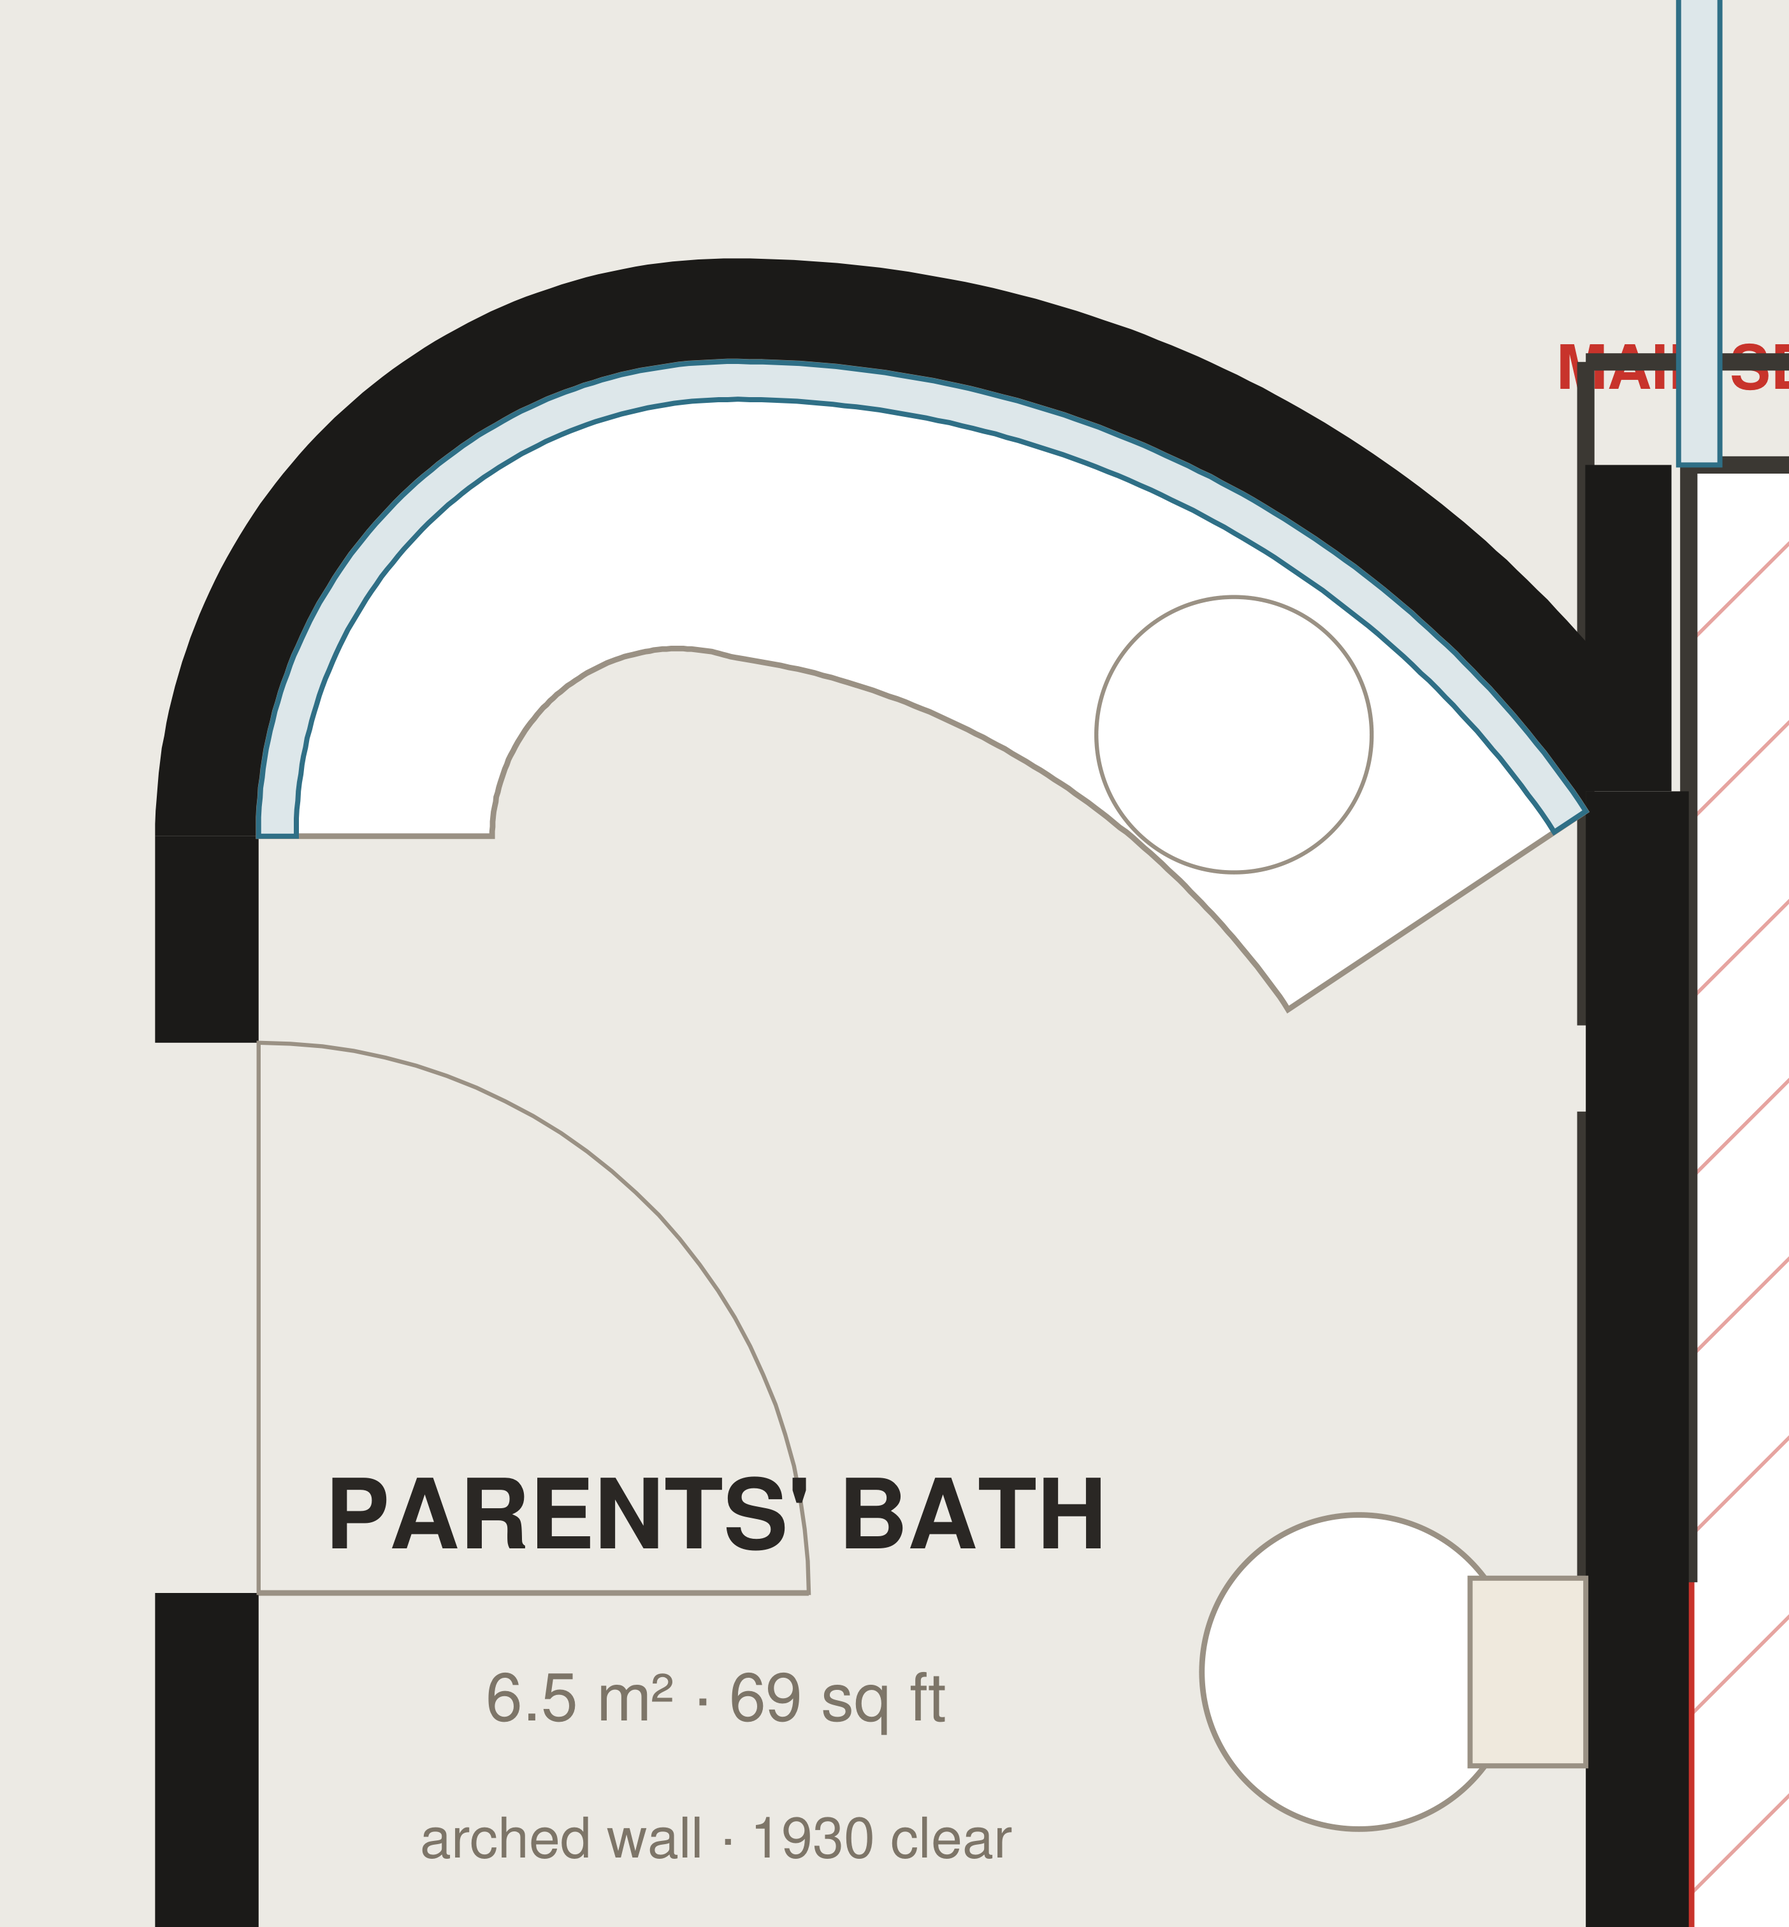
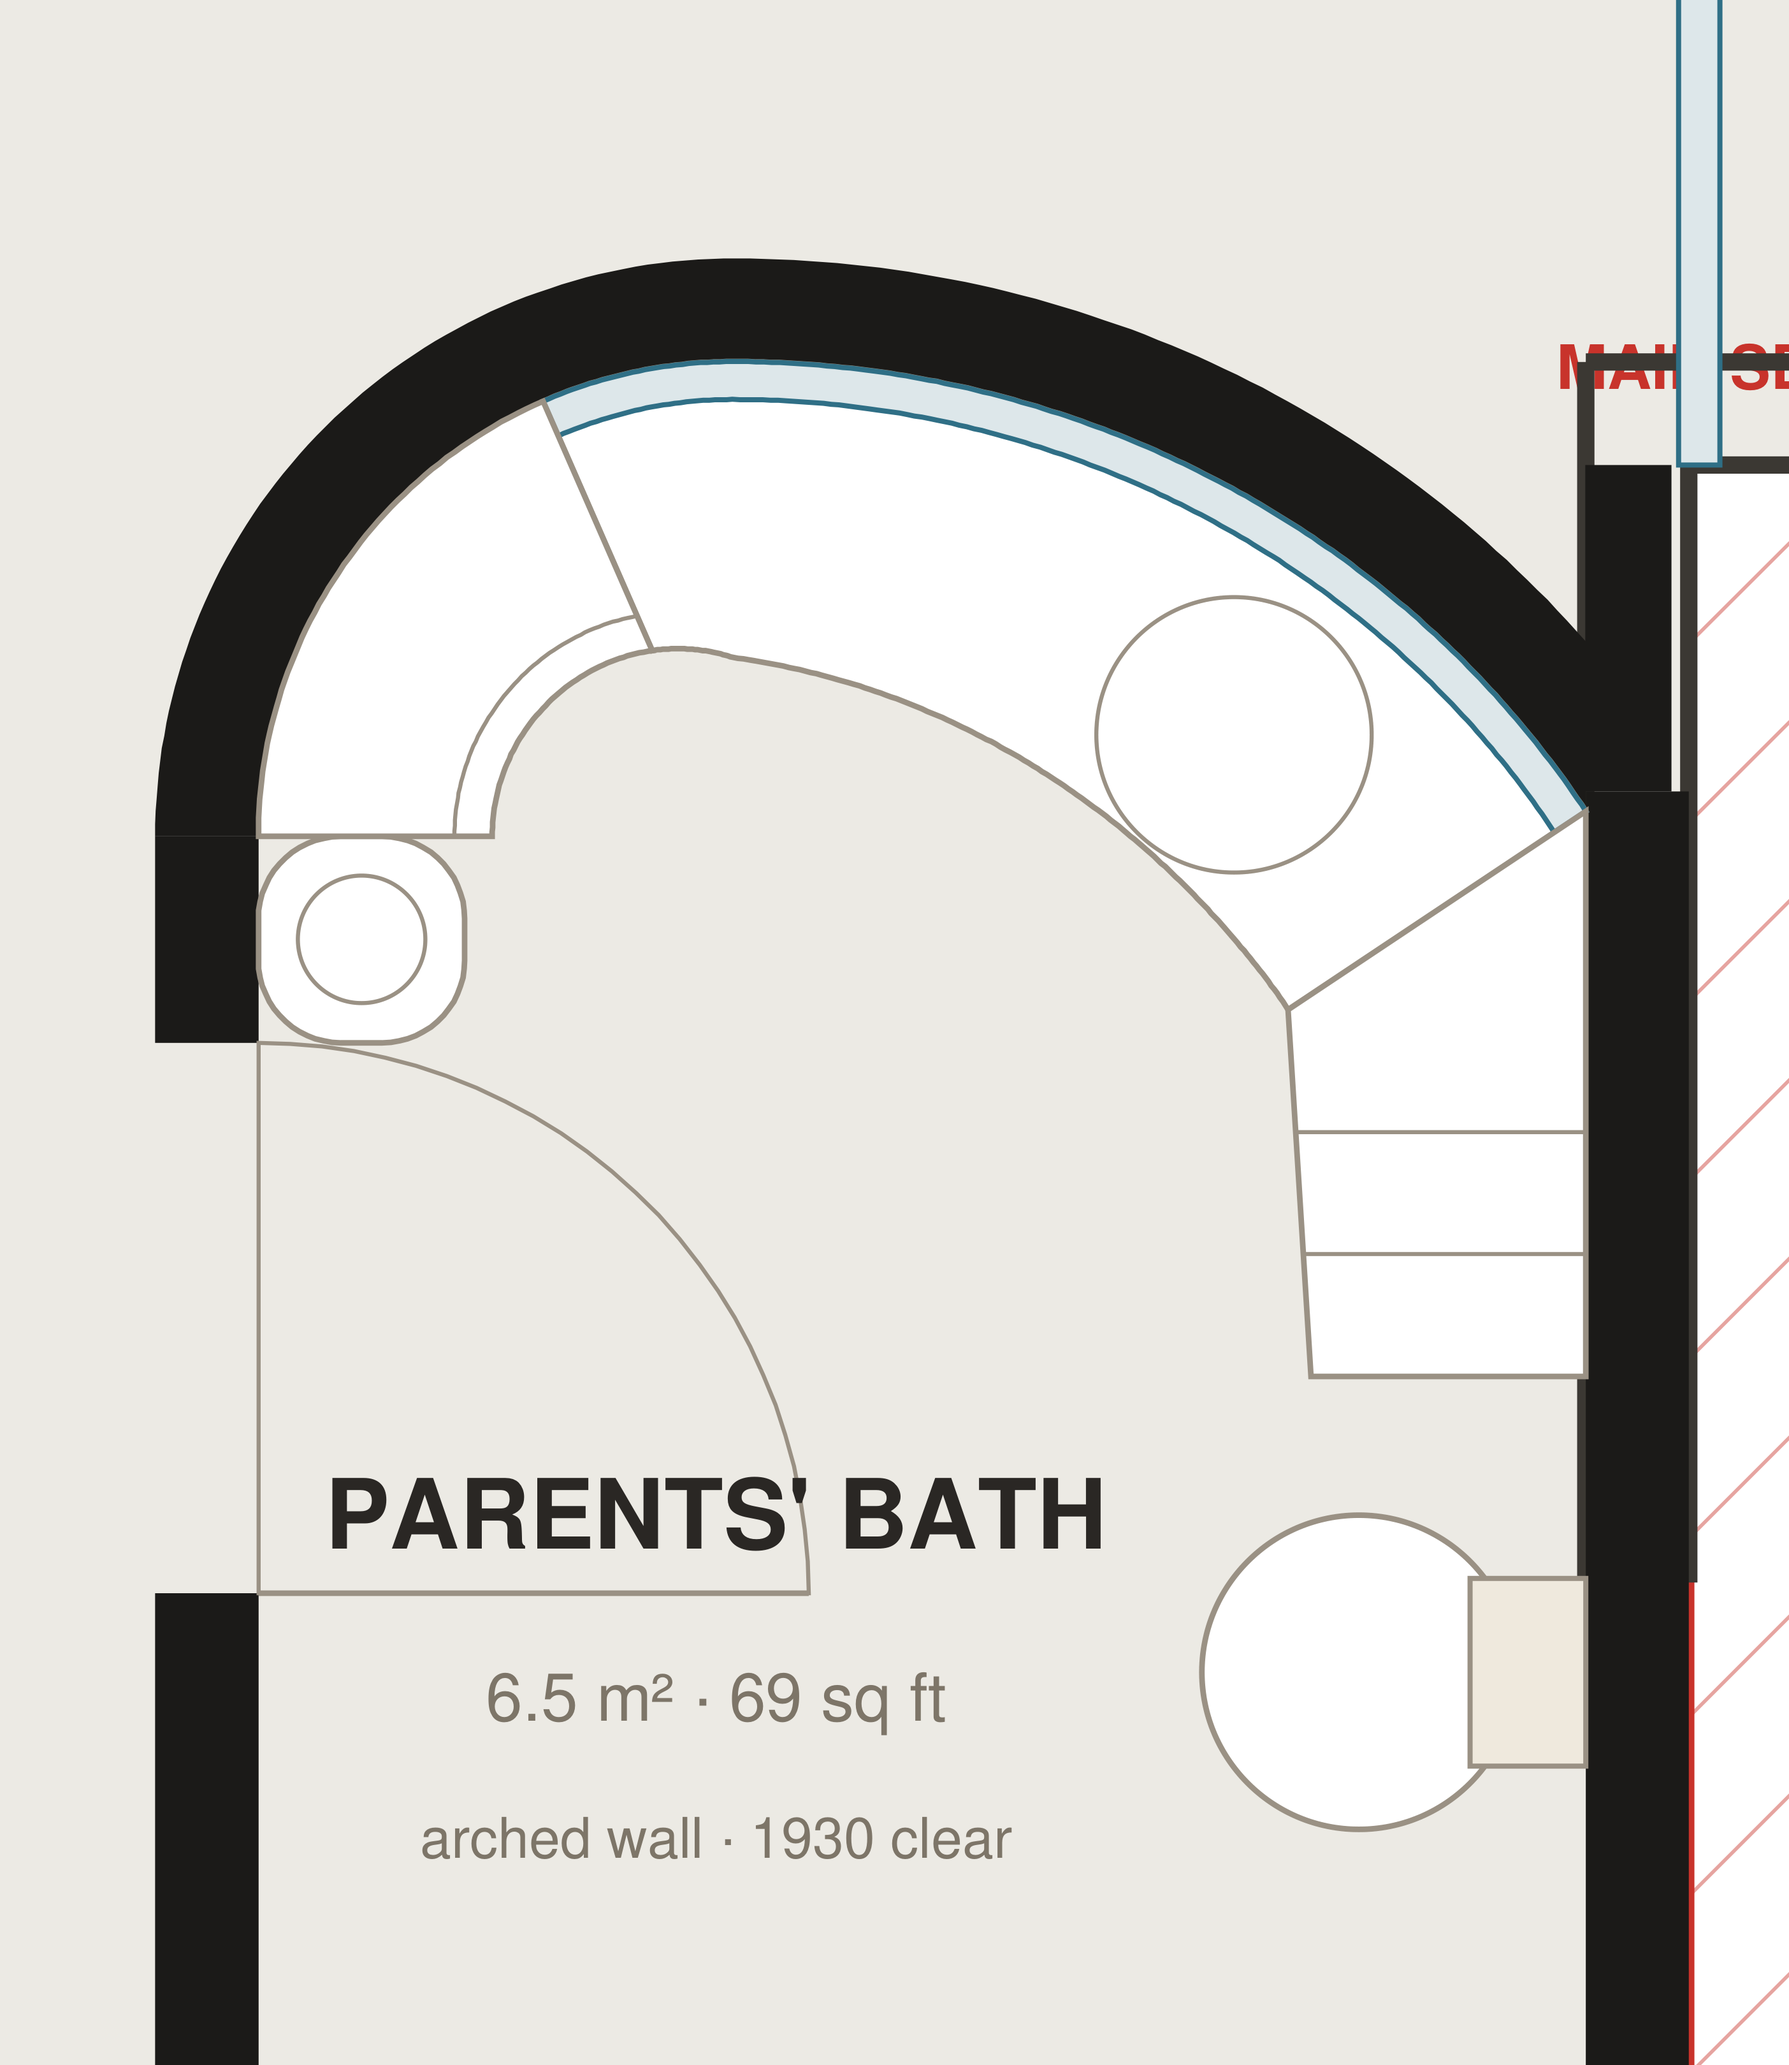
CAD: the arch carries a full run of joinery, not just the vanity
Karan's third pass on the master baths.

* mb_dep factored out of mb_console, so the console, the cupboard and
  the shelves all sit on one face and the run reads unbroken.
* mb_cabinet — the last 800 of the arch becomes a cupboard with a door.
  End of the run, out of the wet zone, nothing else wants that wall.
* mb_shelves — the console's end cut IS this unit's top, so the joinery
  turns out of the arch and down the duct wall without a joint.  822
  long, 432 -> 400 deep, stopping 120 short of the pan.  Towels.
* a bin in the 300 between the foot of the arch and the door jamb.
* the mirror now stops where the console does: there is no mirroring the
  front of a cupboard.

Correction carried into ROUND1.md: the 1500 turning circle reported last
round was a sampling artefact — a 16-direction probe overestimates.  At
24 and 48 directions it was 1400 before any joinery and is 1300 now.  The
room is not an accessible one; it is still far better than the guest WC's
1000.  Stated plainly in the doc rather than quietly restated.

verify.py passes.  DXF not rebuilt yet.

Claude-Session: https://claude.ai/code/session_01HE1ZiZE53Xo6n73hYxijkS

diff --git a/CAD/tools/retrofit.py b/CAD/tools/retrofit.py
@@ -225,7 +225,37 @@ def mb_wall():
     return [mb_pts(h) + list(reversed(mb_pts(-h)))]
 
 
-def mb_console(d_e=520, d_w=340, u_e=-1.0, u_w=1.0, mir=55):
+MB_CAB = 800            # the cupboard at the west end, measured along the arc
+
+
+def mb_dep(u, d_e=520, d_w=340, u_e=-1.0, u_w=1.0):
+    """How far the console stands off the wall at u.
+
+    It cannot run at one depth.  520 is right at the basin end, where the east
+    flank's radius of curvature never drops below 1500 — but the west flank is
+    a 690 inner radius, and 520 into that leaves 170 and closes the corner off
+    to a point.  So it eases, over its whole length, to 340 at the foot: one
+    unbroken taper rather than a deep bit and a thin bit, and it still leaves
+    350 of radius at the tightest part of the turn.  The cupboard at the end
+    picks up the same face, so the whole run is flush."""
+    s = min(1.0, max(0.0, (u_w - u) / (u_w - u_e)))
+    return d_w + (d_e - d_w) * s * s * (3 - 2 * s)              # smoothstep
+
+
+def mb_u_from_end(run, n=600):
+    """u that is `run` back from the foot of the arc, measured along the wall."""
+    h = D.T_MB / 2
+    us = np.linspace(mb_u_at_wall(h), 1.0, n)
+    pts = [mb_pt(u, h) for u in us]
+    d = 0.0
+    for i in range(n - 1, 0, -1):
+        d += math.dist(pts[i], pts[i - 1])
+        if d >= run:
+            return us[i - 1]
+    return us[0]
+
+
+def mb_console(mir=55):
     """The arched vanity and the mirror over it, both struck off the sweep.
 
     Karan asked for the vanity in the arc, and this is the only honest way to
@@ -233,31 +263,62 @@ def mb_console(d_e=520, d_w=340, u_e=-1.0, u_w=1.0, mir=55):
     gaps either side.  This one is the same curve offset inwards, so it beds on
     the wall for its whole length.
 
-    It runs the WHOLE arc, pod wall to the foot of the west flank, but it
-    cannot run at one depth.  520 is right at the basin end, where the east
-    flank's radius of curvature never drops below 1500 — but the west flank is
-    a 690 inner radius, and 520 into that leaves 170 and closes the corner off
-    to a point.  So it eases, over its whole length, to 340 at the foot — one
-    unbroken taper rather than a deep bit and a thin bit, and it still leaves
-    350 of radius at the tightest part of the turn.
+    It runs from the pod wall to where the cupboard takes over at the west end
+    of the arc — see mb_dep for why the depth eases along the way, and
+    mb_shelves for the unit that carries the same face on down the duct wall.
 
     The mirror is the same curve again, a 55 band on the wall face, running the
     full length of the console — so what you face at the basin is a mirror that
-    wraps with the room instead of a flat sheet fighting it."""
+    wraps with the room instead of a flat sheet fighting it.  It stops where
+    the console does: there is no mirroring the front of a cupboard."""
     h = D.T_MB / 2
-    u0 = mb_u_at_wall(h)                 # start ON the wall, not near it
-    us = list(np.linspace(u0, 1.0, 160))
-
-    def dep(u):                                  # deep at the basin, thin round
-        s = min(1.0, max(0.0, (u_w - u) / (u_w - u_e)))      # the turn
-        return d_w + (d_e - d_w) * s * s * (3 - 2 * s)       # smoothstep
+    u0, u1 = mb_u_at_wall(h), mb_u_from_end(MB_CAB)
+    us = list(np.linspace(u0, u1, 160))
 
     back = [mb_pt(u, h) for u in us]
-    band = back + [mb_pt(u, h + dep(u)) for u in reversed(us)]
+    band = back + [mb_pt(u, h + mb_dep(u)) for u in reversed(us)]
     glass = back + [mb_pt(u, h + mir) for u in reversed(us)]
     bx, by = mb_pt(u0 + 0.36, h + 300)   # 100 clear of the wall behind it
     return [('poly', band, 'solid'), ('circle', bx, by, 200, 'light'),
             ('poly', glass, 'glass')]
+
+
+def mb_cabinet(door=55):
+    """The wall cabinet at the west end of the arc, running to its foot.
+
+    The last MB_CAB of the arc is a cupboard rather than open console: it is
+    the end of the run, it is out of the wet zone, and it is the one stretch
+    where nothing else wants the wall.  Same face as the console beside it, so
+    the two read as one length of joinery with a door at the end of it — the
+    inner line is that door."""
+    h = D.T_MB / 2
+    us = list(np.linspace(mb_u_from_end(MB_CAB), 1.0, 60))
+    back = [mb_pt(u, h) for u in us]
+    return [('poly', back + [mb_pt(u, h + mb_dep(u)) for u in reversed(us)],
+             'solid'),
+            ('poly', [mb_pt(u, h + mb_dep(u) - door) for u in us]
+             + [mb_pt(u, h + mb_dep(u)) for u in reversed(us)], 'light')]
+
+
+def mb_shelves(y_end=7500, taper=33):
+    """The linen shelves at the pod-wall end, carrying the console on down.
+
+    The console's end cut IS this unit's top, so the two read as one run of
+    joinery turning out of the arc and down the duct wall.  433 deep at the top
+    easing to 400, 822 along the wall, and it stops 120 short of the pan.  It
+    is the only piece here with a shelf in it: towels, bath mats, the things a
+    bathroom has to keep and a vanity has nowhere for."""
+    h = D.T_MB / 2
+    u0 = mb_u_at_wall(h)
+    back, front = mb_pt(u0, h), mb_pt(u0, h + mb_dep(u0))
+    fx, fy = front
+    poly = [back, front, (fx + taper, y_end), (D.MB_XE, y_end)]
+    out = [('poly', poly, 'solid')]
+    for k in (1, 2):                                   # shelf dividers
+        t = k / 3
+        x_, y_ = fx + taper * t, fy + (y_end - fy) * t
+        out.append(('line', x_, y_, D.MB_XE, y_, 'light'))
+    return out
 
 
 def mb_door():

diff --git a/CAD/tools/design.py b/CAD/tools/design.py
@@ -452,6 +452,10 @@ _MIRROR = [
     # 4325, not the wall at 4405: the builder leaves a 230 x 1000 column on
     # the duct's corner and 80 of it stands in this corner of the room.
     ('shower',   2475, 8595, 4325, 9545, 'walk-in, 1850 x 950'),
+    # The 300 of straight wall between the foot of the arch and the door jamb
+    # is too short for anything hung and too shallow for anything deep.  It is
+    # exactly a bin, and a bin has to go somewhere.
+    ('bin',      2475, 6715, 2775, 7015, ''),
 ]
 
 _FLIP = {'bed-e': 'bed-w', 'bed-w': 'bed-e', 'bed-n': 'bed-n', 'bed-s': 'bed-s',

diff --git a/CAD/tools/build_dxf.py b/CAD/tools/build_dxf.py
@@ -246,7 +246,8 @@ def main():
         prim(p)
     for p in R.wc_console():
         prim(p)
-    for p in R.mb_console() + R.mb_door():   # arched vanity, mirror, door
+    for p in (R.mb_console() + R.mb_cabinet() + R.mb_shelves()
+              + R.mb_door()):    # vanity, mirror, cupboard, shelves, door
         prim(p)
         prim(R.mirror_prim(p))
     for p in R.wc_out_door():

diff --git a/CAD/tools/draw_design.py b/CAD/tools/draw_design.py
@@ -259,7 +259,8 @@ def main():
         prim(p)
     for p in R.wc_console():
         prim(p)
-    for p in R.mb_console() + R.mb_door():   # arched vanity, mirror, door
+    for p in (R.mb_console() + R.mb_cabinet() + R.mb_shelves()
+              + R.mb_door()):    # vanity, mirror, cupboard, shelves, door
         prim(p)
         prim(R.mirror_prim(p))
     for p in R.wc_out_door():

diff --git a/CAD/ROUND1.md b/CAD/ROUND1.md
@@ -295,19 +295,24 @@ partition is left as the slider's south jamb** — a jamb, not a collision.
 |---|---|---|
 | clear width at the shower | 1930 | 6'-4" |
 | deepest, crown to the south wall | 3520 | 11'-7" |
-| clear floor, net of every fitting | 3.56 m² | 38 sq ft |
-| **largest circle that fits on the clear floor** | **1500** | **4'-11"** |
+| clear floor, net of every fitting | 3.25 m² | 35 sq ft |
+| **largest circle that fits on the clear floor** | **1300** | **4'-3"** |
 | door, clear | 800 | 2'-7" |
 | in front of the pan | 1330 | 4'-4" |
 | pan to the shower screen | 355 | 1'-2" |
 | console front to the pan | 653 | 2'-2" |
 | walk-in shower | 1850 × 950 | 6'-1" × 3'-1" |
 
-The 1500 circle is the number that matters. That is the wheelchair turning
-circle the guest WC could not come close to (it manages 1000), and this room
-now meets it with the fittings in.
+**A correction on that last figure.** When the arch was first drawn I reported
+1500, and said it met the wheelchair turning circle. It did not: that reading
+came off a 16-direction probe, which overestimates. Sampled properly it was
+**1400** even before any joinery, and with the cupboard, the shelves and the
+bin in it is **1300**. So the room does not meet the 1500 standard — it is
+still far better than the guest WC, which manages 1000, and 1300 is a
+comfortable bathroom, but it is not an accessible one. The bin is worth 100 of
+that and is the one thing here you can move with your foot.
 
-### The three fittings
+### The fittings
 
 * **The arched vanity, and the mirror over it** — both struck off the sweep
   itself, not stood against it. A straight top against a curved wall touches at
@@ -329,6 +334,31 @@ now meets it with the fittings in.
   At 1930 clear a full-width wet zone is simpler than a cubicle with a dead gap
   beside it. 1850 rather than 1930 because the builder leaves a 230 × 1000
   column on the duct's corner and 80 of it stands in that corner of the room.
+
+### And the storage, which is the rest of the run
+
+The console is not the whole of the joinery. The arch, and the two walls it
+dies into, carry a continuous run — and each piece is where it is because that
+is the one stretch of wall nothing else wants.
+
+| | | |
+|---|---|---|
+| console + mirror | 1743 on the arch | 520 deep at the basin, 395 where the cupboard starts |
+| **cupboard** | 800 on the arch, to its foot | 395 → 340 deep, one door |
+| **shelves** | 822 down the duct wall | 432 → 400 deep, stopping 120 short of the pan |
+| **bin** | 300 × 300 | in the 300 between the arch's foot and the door jamb |
+
+* **The cupboard** takes the last 800 of the arch. It is the end of the run,
+  it is out of the wet zone, and it picks up the same face as the console
+  beside it — so the two read as one length of joinery with a door on the end
+  rather than two pieces meeting.
+* **The shelves** carry the run on round the corner and down the duct wall.
+  The console's end cut *is* the shelves' top, so the joinery turns out of the
+  arch without a joint. This is the only piece with a shelf in it: towels, bath
+  mats, the things a bathroom has to keep and a vanity has nowhere for.
+* **The bin** fills the 300 of straight wall between the foot of the arch and
+  the door jamb — too short for anything hung, too shallow for anything deep,
+  and exactly a bin.
 
 ### The door is drawn open
 
